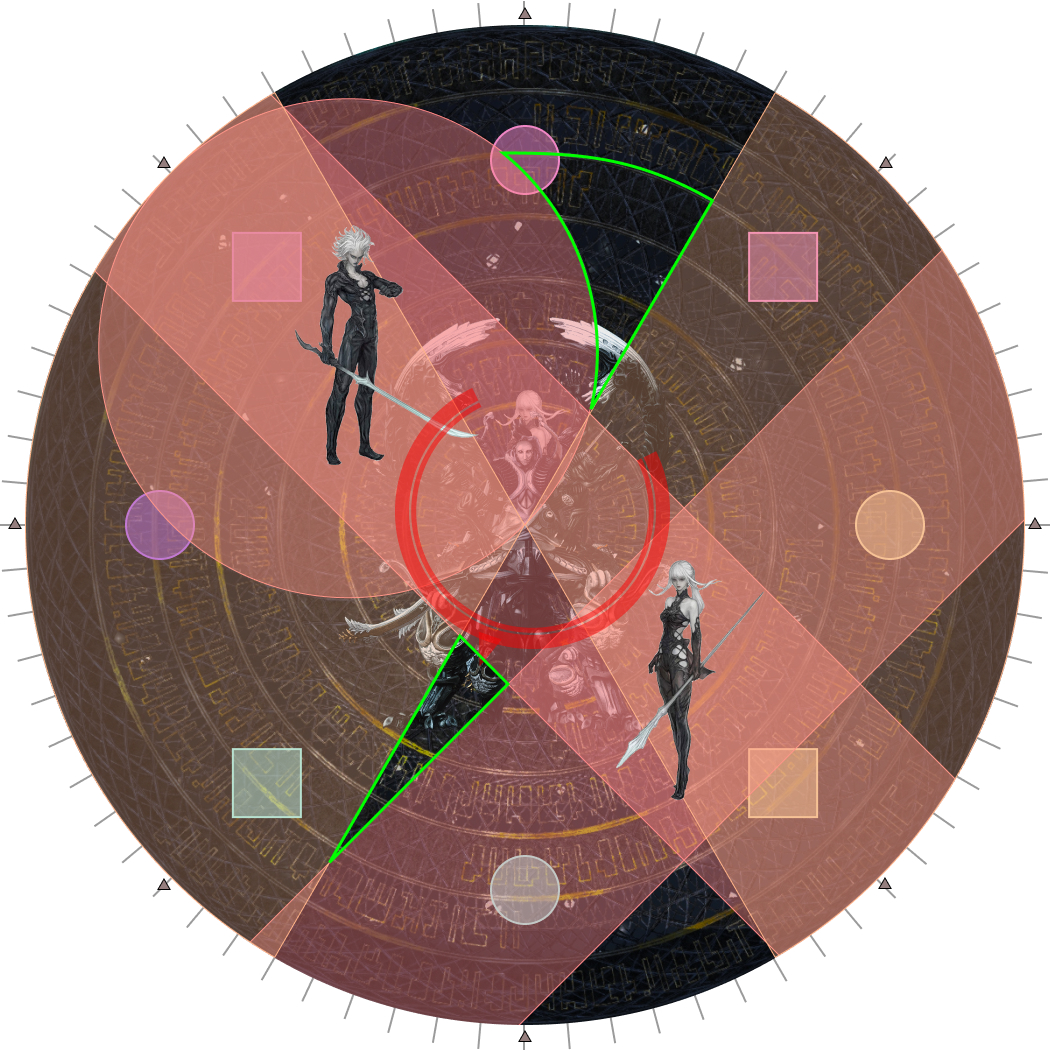
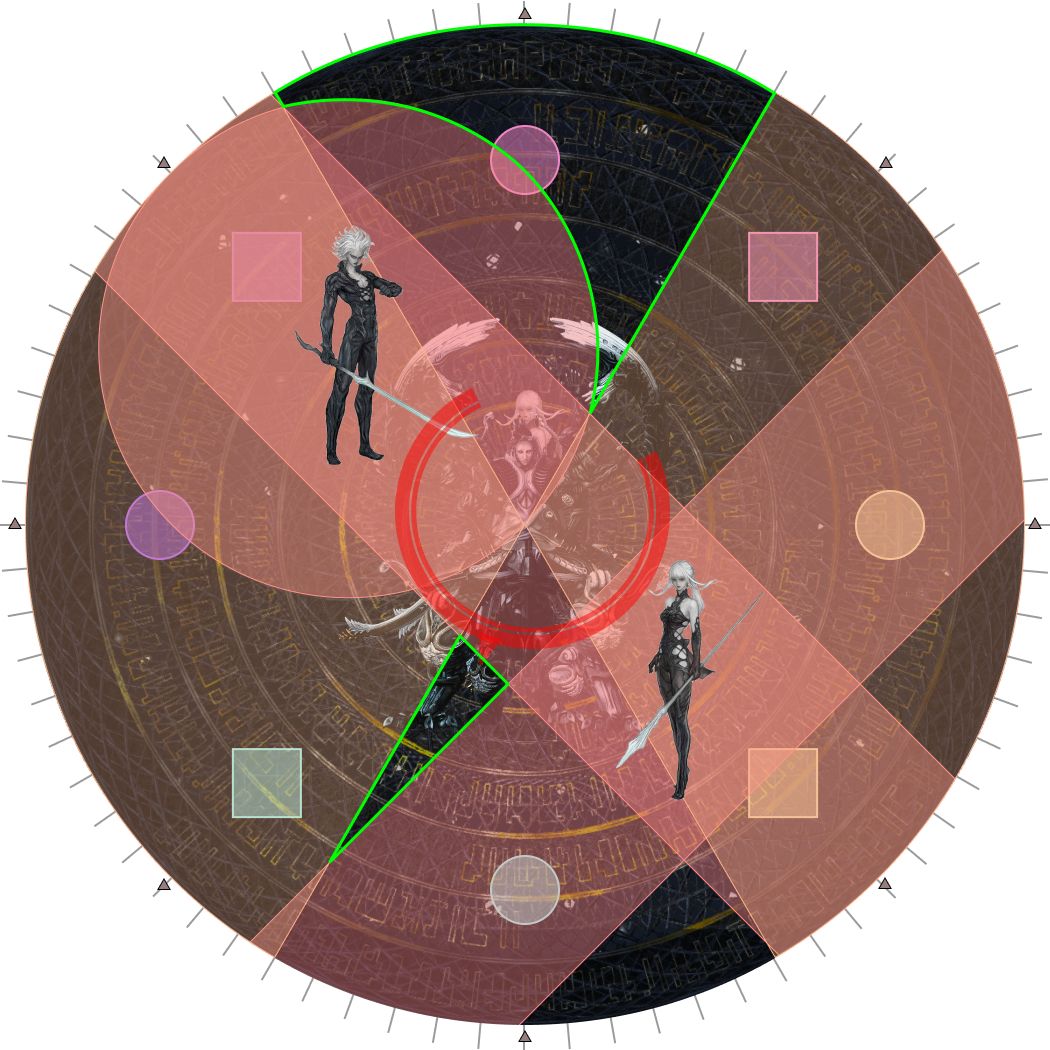
Update Omega safe spot image

diff --git a/ultimates/top/en/05c_run_dynamis_omega.md b/ultimates/top/en/05c_run_dynamis_omega.md
@@ -40,9 +40,6 @@ Run: Dynamis (Omega Version) can be split down into the following three blocks:
 
 Identifying the safe spots will take some practice.
 
-<div style="background-color: #002 ; padding: 10px; border: 1px solid;">
-<details markdown="block">
-<summary><b>[Click to Expand] Safe spots</b></summary>
 <table>
   <tr>
     <td width="50%">
@@ -65,8 +62,6 @@ Identifying the safe spots will take some practice.
     </td>
   </tr>
 </table>
-</details>
-</div>
 
 Nukemaru has compiled a collection of clips which may help:
 
